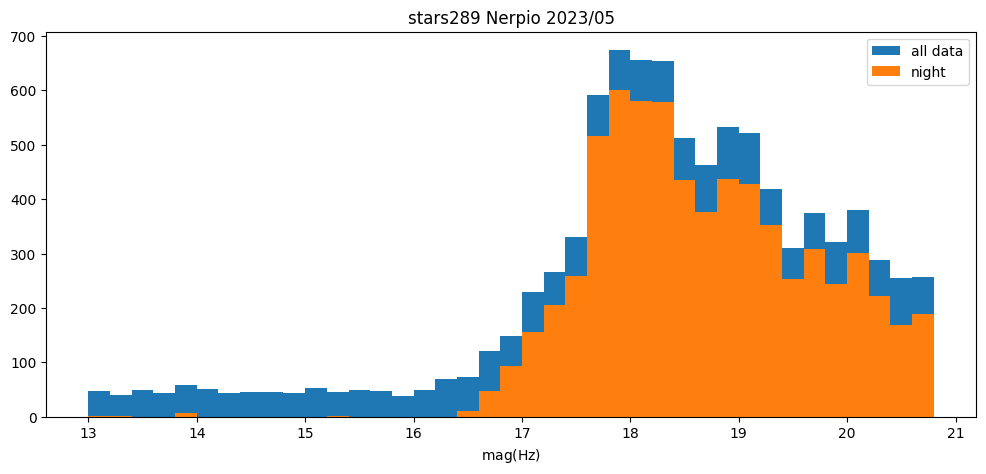
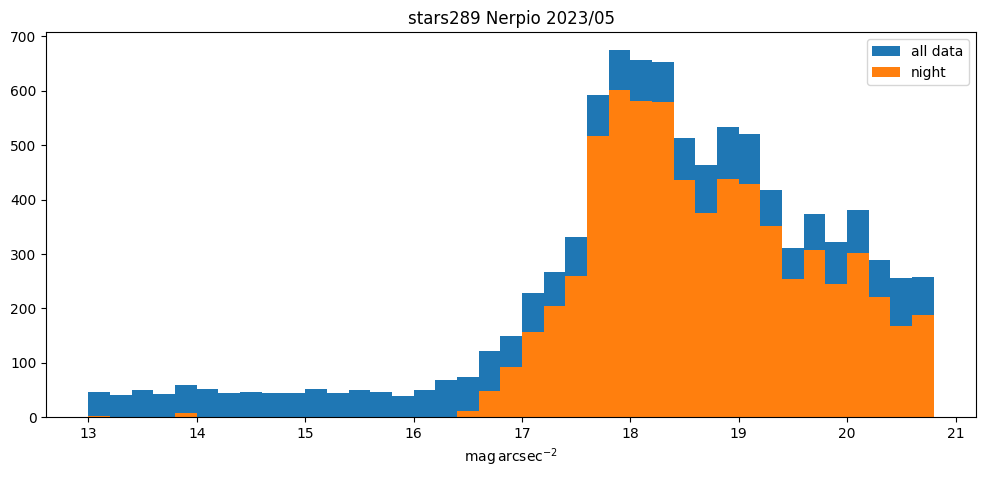
updated magnitude units in example

diff --git a/doc/TESS-IDA-TOOLS-Example.md b/doc/TESS-IDA-TOOLS-Example.md
@@ -51,18 +51,18 @@ table.info
 
 
     <TimeSeries length=23807>
-             name          dtype    unit    class  
-    --------------------- ------- ------- ---------
-                     time  object              Time
-    Enclosure Temperature float64   deg_C  Quantity
-          Sky Temperature float64   deg_C  Quantity
-                Frequency float64      Hz  Quantity
-                     MSAS float64 mag(Hz) Magnitude
-                       ZP float64            Column
-          Sequence Number   int64            Column
-                  Sun Alt float64     deg  Quantity
-                 Moon Alt float64     deg  Quantity
-               Moon Phase float64          Quantity
+             name          dtype       unit      class  
+    --------------------- ------- ------------- --------
+                     time  object                   Time
+    Enclosure Temperature float64         deg_C Quantity
+          Sky Temperature float64         deg_C Quantity
+                Frequency float64            Hz Quantity
+                     MSAS float64 mag / arcsec2 Quantity
+                       ZP float64                 Column
+          Sequence Number   int64                 Column
+                  Sun Alt float64           deg Quantity
+                 Moon Alt float64           deg Quantity
+               Moon Phase float64               Quantity
 
 
 
@@ -77,9 +77,9 @@ table[0:5]
 
 
 <div><i>TimeSeries length=5</i>
-<table id="table139687088880368" class="table-striped table-bordered table-condensed">
+<table id="table140006783348992" class="table-striped table-bordered table-condensed">
 <thead><tr><th>time</th><th>Enclosure Temperature</th><th>Sky Temperature</th><th>Frequency</th><th>MSAS</th><th>ZP</th><th>Sequence Number</th><th>Sun Alt</th><th>Moon Alt</th><th>Moon Phase</th></tr></thead>
-<thead><tr><th></th><th>deg_C</th><th>deg_C</th><th>Hz</th><th>mag(Hz)</th><th></th><th></th><th>deg</th><th>deg</th><th></th></tr></thead>
+<thead><tr><th></th><th>deg_C</th><th>deg_C</th><th>Hz</th><th>mag / arcsec2</th><th></th><th></th><th>deg</th><th>deg</th><th></th></tr></thead>
 <thead><tr><th>Time</th><th>float64</th><th>float64</th><th>float64</th><th>float64</th><th>float64</th><th>int64</th><th>float64</th><th>float64</th><th>float64</th></tr></thead>
 <tr><td>2022-03-01T00:00:14.000</td><td>0.0</td><td>0.0</td><td>0.34</td><td>21.63</td><td>20.45</td><td>96365</td><td>-59.13039024030824</td><td>-68.3424898300323</td><td>0.870399740158756</td></tr>
 <tr><td>2022-03-01T00:01:14.000</td><td>0.0</td><td>0.0</td><td>0.34</td><td>21.64</td><td>20.45</td><td>96366</td><td>-59.164849992604935</td><td>-68.22004567629244</td><td>0.8704498032546856</td></tr>
@@ -324,19 +324,19 @@ table.info
 
 
     <TimeSeries length=23807>
-             name          dtype    unit    class  
-    --------------------- ------- ------- ---------
-                     time  object              Time
-    Enclosure Temperature float64   deg_C  Quantity
-          Sky Temperature float64   deg_C  Quantity
-                Frequency float64      Hz  Quantity
-                     MSAS float64 mag(Hz) Magnitude
-                       ZP float64            Column
-          Sequence Number   int64            Column
-                  Sun Alt float64     deg  Quantity
-                 Moon Alt float64     deg  Quantity
-               Moon Phase float64          Quantity
-               Julian Day float64            Column
+             name          dtype       unit      class  
+    --------------------- ------- ------------- --------
+                     time  object                   Time
+    Enclosure Temperature float64         deg_C Quantity
+          Sky Temperature float64         deg_C Quantity
+                Frequency float64            Hz Quantity
+                     MSAS float64 mag / arcsec2 Quantity
+                       ZP float64                 Column
+          Sequence Number   int64                 Column
+                  Sun Alt float64           deg Quantity
+                 Moon Alt float64           deg Quantity
+               Moon Phase float64               Quantity
+               Julian Day float64                 Column
 
 
 
@@ -373,7 +373,7 @@ quantity_support()
 
 
 
-    <astropy.visualization.units.quantity_support.<locals>.MplQuantityConverter at 0x7f0b6f436140>
+    <astropy.visualization.units.quantity_support.<locals>.MplQuantityConverter at 0x7f55dc894eb0>
 
 
 
@@ -393,19 +393,19 @@ night_table.info
 
 
     <TimeSeries length=17236>
-             name          dtype    unit    class  
-    --------------------- ------- ------- ---------
-                     time  object              Time
-    Enclosure Temperature float64   deg_C  Quantity
-          Sky Temperature float64   deg_C  Quantity
-                Frequency float64      Hz  Quantity
-                     MSAS float64 mag(Hz) Magnitude
-                       ZP float64            Column
-          Sequence Number   int64            Column
-                  Sun Alt float64     deg  Quantity
-                 Moon Alt float64     deg  Quantity
-               Moon Phase float64          Quantity
-               Julian Day float64            Column
+             name          dtype       unit      class  
+    --------------------- ------- ------------- --------
+                     time  object                   Time
+    Enclosure Temperature float64         deg_C Quantity
+          Sky Temperature float64         deg_C Quantity
+                Frequency float64            Hz Quantity
+                     MSAS float64 mag / arcsec2 Quantity
+                       ZP float64                 Column
+          Sequence Number   int64                 Column
+                  Sun Alt float64           deg Quantity
+                 Moon Alt float64           deg Quantity
+               Moon Phase float64               Quantity
+               Julian Day float64                 Column
 
 
 
